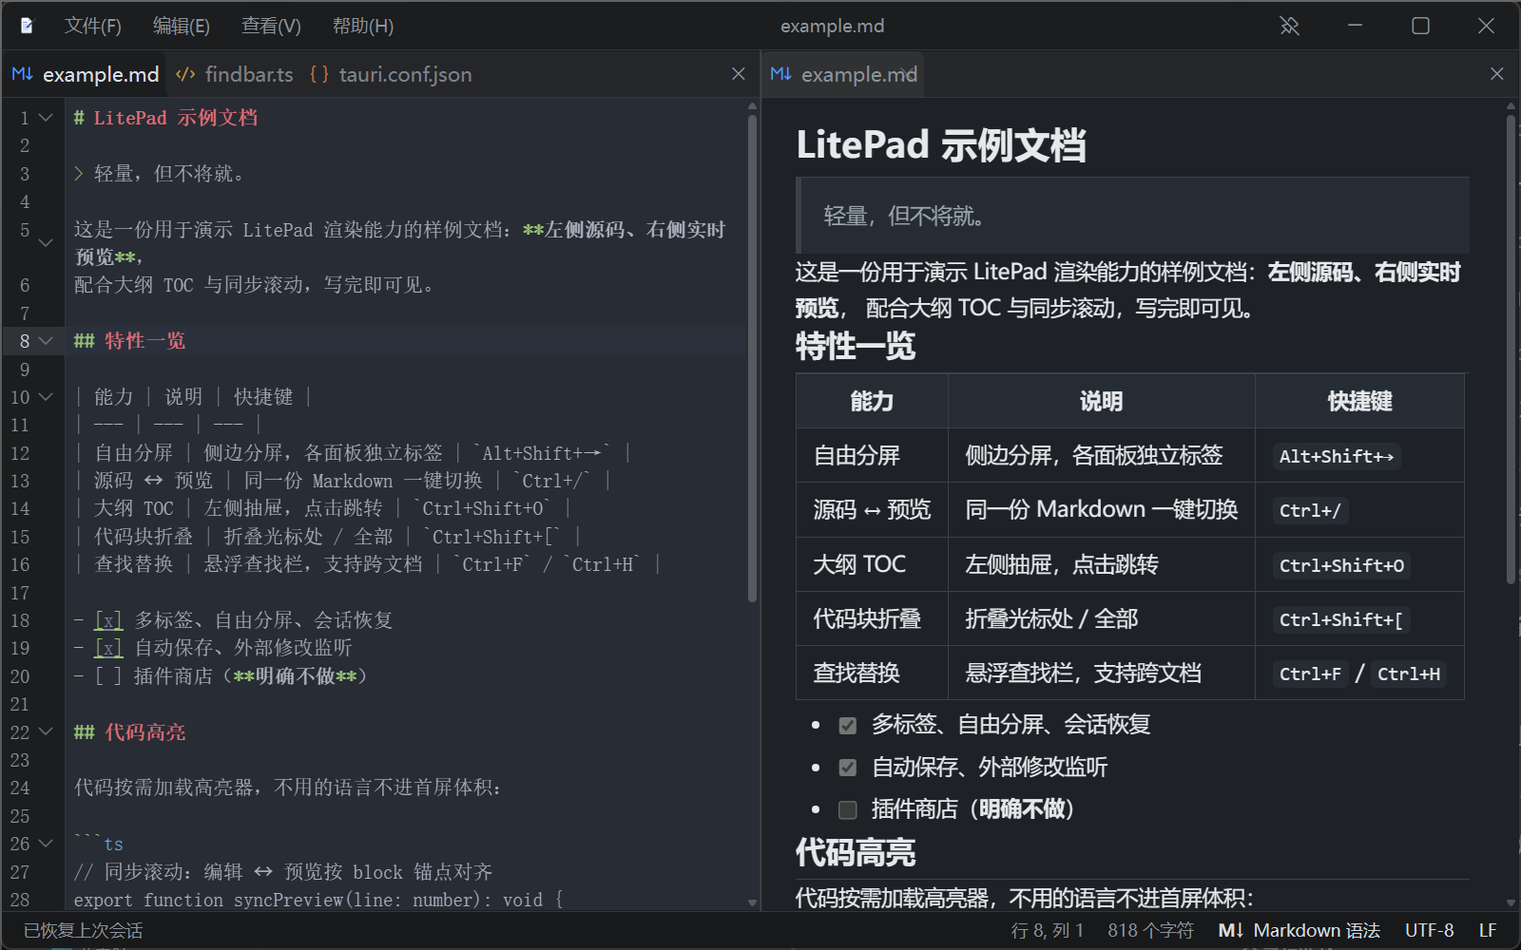
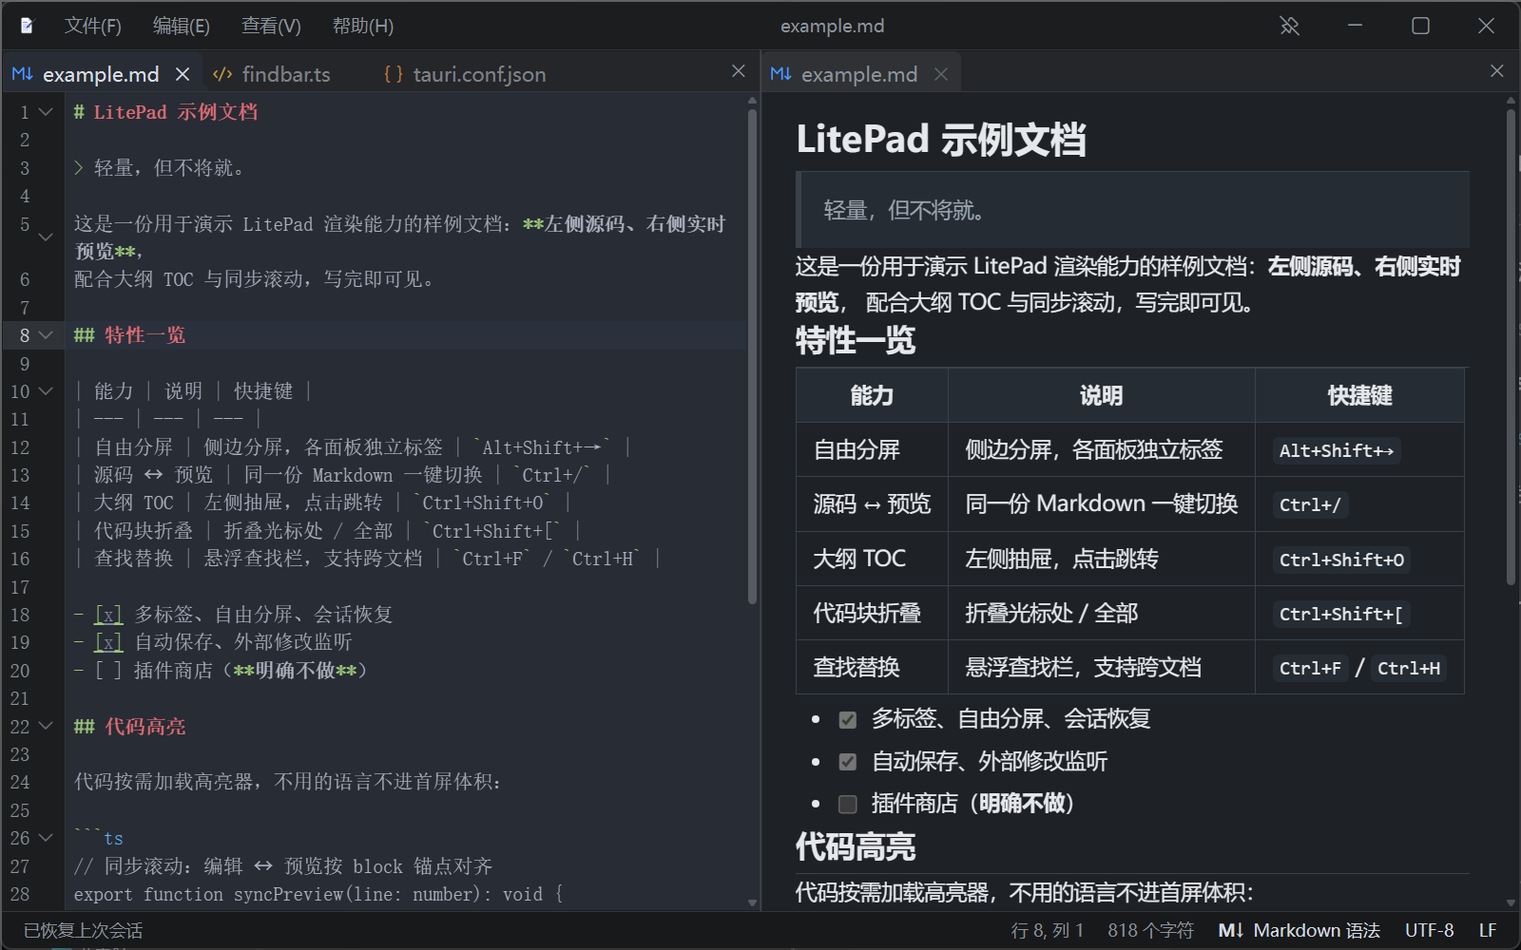
feat(tab): 恢复相连标签肩部并按 VS Code 对齐 hover 逻辑（B119）
- 肩部改实色四分之一圆：B117 后标签底=条带底，旧 box-shadow 补色整块
  落在条带盒外被 overflow 裁掉（肩部消失的根因）；fill 底边外扩同步收回
  （-4px→0），肩部整块留在条带盒内不再受裁切影响
- 深色活动标签色对齐 oneDark 编辑器底色 #282c34（原 var(--bg)=#1b1d1f
  比条带 #242629 还暗，舌片呈凹陷观感，与 VS Code 层级正好相反）
- hover 口径对齐 VS Code connected：--tab-bg-hover 改 color-mix(fg 6%,
  条带色)；connected 档移除活动标签悬停提亮（VS Code hover fill 规则
  全带 :not(.active)），pill 档保留提亮（activeHoverBackground 同款）；
  紧凑档活动垫底改用 fill 同色（pill 档单独跟随提亮）
- 测试：inset 断言、肩部实色圆盘契约（禁 box-shadow）、半径朝向、
  主题变量精确值、B118 垫底断言更新；新增三条退化替身反向验证

diff --git a/src/styles/global.css b/src/styles/global.css
@@ -32,10 +32,17 @@
        · --modern-ui-connected-tab-strip-background = editorGroupHeader.tabsBackground
      即「条带比编辑器差一档、活动标签与编辑器同色」——深 #252526 / 浅 #F3F3F3 那一档。 */
   --tab-strip-bg: #242629;
-  /* 非活动标签：透明（露出条带）；hover 只比条带抬一点点；活动 = --bg（编辑器背景）。
-     ⚠ 三档必须拉开可感知的差距 —— hover 若与 active 同色就分不出「选中」和「划过」。 */
-  --tab-bg-hover: rgba(255, 255, 255, 0.05);
-  --tab-bg-active: var(--bg);
+  /* 非活动标签：透明（露出条带）；hover 只比条带抬一点点；活动 = 编辑器内容区底色。
+     ⚠ 三档必须拉开可感知的差距 —— hover 若与 active 同色就分不出「选中」和「划过」。
+     B119：hover 改用 VS Code connected 的口径（connectedEditorTabs.css:77）
+     color-mix(fg 6%, 条带色)——与旧写法 rgba(255,255,255,.05) 观感几乎一致，
+     但「混底色」比「叠半透明」确定性强（不依赖下面垫的是什么）。
+     B119：--tab-bg-active 从 var(--bg)（#1b1d1f，应用铬色）改为 **#282c34** ——
+     深色下编辑器挂 oneDark（editor.ts:152），内容区实际底色是 oneDark 的
+     #282c34 而非 --bg；沿用旧值会让活动舌片比条带还暗一档（凹陷感），
+     与 VS Code「舌片亮于条带」正好相反。浅色下编辑器无 oneDark，仍是 var(--bg)。 */
+  --tab-bg-hover: color-mix(in srgb, var(--fg) 6%, var(--tab-strip-bg));
+  --tab-bg-active: #282c34;
   --tab-bg-active-hover: #343940;
   /* 标签文件类型图标的家族配色（B57）：十个家族各一色。
      同一族内用同一个色相（形状负责细分），浅深两套取各自的中调，
@@ -123,7 +130,8 @@
      editorGroupHeader.tabsBackground（#F3F3F3），活动标签 = 编辑器背景（纯白）。
      非活动 = 透明；hover 压暗一档（浅色主题里「变亮」没有感知空间）。 */
   --tab-strip-bg: #f3f3f3;
-  --tab-bg-hover: rgba(0, 0, 0, 0.05);
+  /* B119：hover 同深色档改 color-mix 口径（混入 6% 前景 ≈ 旧的 rgba(0,0,0,.05)） */
+  --tab-bg-hover: color-mix(in srgb, var(--fg) 6%, var(--tab-strip-bg));
   --tab-bg-active: var(--bg);
   --tab-bg-active-hover: #e6e8eb;
   /* 标签文件类型图标的家族配色（B57）：浅色底上要更深一档，否则发飘。 */
@@ -510,12 +518,15 @@ button:focus-visible {
 
 /* 底色层（VS Code 的 `.tab > .tab-fill`）：
    `inset-inline: 0` ⇒ 相邻标签的 fill **连成一条带**，不是彼此留缝的独立药丸；
-   上下各外扩 4px ⇒ 活动标签能顶到标签条的上沿、又盖过下沿与编辑器无缝相接。
+   上方外扩 4px ⇒ 活动标签能顶到标签条的上沿。
+   B119：底边从外扩 -4px 收回为 0 —— B117 后条带 28px = 4px 上间距 + 24px 标签，
+   标签底就是条带底，再往下外扩的部分整体落在条带盒外，会被 overflow 裁掉
+   （B117 后肩部消失的根因）；肩部相应改为贴条带底的实色四分之一圆（见下）。
    ⚠ 它是 positioned 元素（absolute），会盖住同层的普通流内容 —— 所以图标 /
    文件名 / ●× 槽位必须各自 `position: relative; z-index: 1`（同 VS Code 的 .tab-label）。 */
 .tab-fill {
   position: absolute;
-  inset: -4px 0 -4px;
+  inset: -4px 0 0;
   z-index: 0;
   border-radius: 5px 5px 0 0;
   background: transparent;
@@ -531,43 +542,43 @@ button:focus-visible {
   background: var(--tab-bg-hover);
 }
 
-/* 活动标签：fill 抬到**编辑器背景色**（--tab-bg-active 即 var(--bg)），
-   描一圈 --border 但**不封底边** —— 底边敞开才能与下面的编辑区连成一体。 */
+/* 活动标签：fill 抬到**编辑器内容区底色**（--tab-bg-active，深色 = oneDark 的
+   #282c34，浅色 = var(--bg)），无边框、底边不封口 —— 与下面的编辑区连成一体。 */
 .tab-active {
   color: var(--fg);
 }
 
-/* B113-2（方案 A「修色保反馈」）：fill 的底色收进局部变量 --tab-fill-bg，
-   肩部的 box-shadow **也用它** —— 悬停提亮、闪烁变色时只改这一个变量，
-   标签和两侧肩部就永远同色（修复「肩部两块颜色和标签对不上」）。
-   ⚠ 必须配合下面的 @property 注册：不注册的话自定义属性动画是**离散跳变**，
-   注册成 <color> 后 keyframes 改它才有平滑插值（肩部也跟着平滑过渡）。 */
+/* B113-2：fill 的底色收进局部变量 --tab-fill-bg，肩部的底色**也用它** ——
+   非焦点降档时只改这一个变量，标签和两侧肩部就永远同色
+   （修复「肩部两块颜色和标签对不上」）。
+   ⚠ 必须配合下面的 @property 注册：不注册的话自定义属性变化是**离散跳变**，
+   注册成 <color> 后改变量才有平滑过渡（肩部也跟着平滑过渡）。 */
 @property --tab-fill-bg {
   syntax: "<color>";
   inherits: true;
   initial-value: #0000;
 }
 
-/* B116：去掉描边（用户要求）。活动标签只靠底色区分 —— fill 取编辑器背景色、
-   只有上方两角圆、底边不封口，与编辑区连成一体；侧边描边去掉后「舌片」的
-   根部过渡由肩部的纯色圆角补色完成（见下方肩部注释）。 */
+/* B116 去描边 + B119 实色肩部：活动标签只靠底色区分 —— fill 取编辑器内容区底色、
+   只有上方两角圆、底边不封口，与编辑区连成一体；「舌片」的根部过渡由
+   肩部的实色四分之一圆完成（见下方肩部注释）。 */
 .tab-active .tab-fill {
   --tab-fill-bg: var(--tab-bg-active);
   background: var(--tab-fill-bg);
 }
 
-/* 悬停在活动标签上再亮一档：只改变量，底色与肩部一起平滑提亮 */
-.tab-active:hover .tab-fill {
-  --tab-fill-bg: var(--tab-bg-active-hover);
-}
+/* B119：connected 档不再有「悬停活动标签再亮一档」—— 对齐 VS Code：
+   connectedEditorTabs.css / tabs.css 里所有 hover fill 规则都带 :not(.active)，
+   活动标签悬停只亮关闭按钮（action-active-hover-background = fill 同色）。
+   pill 档保留提亮（VS Code 的 modernEditorTab.activeHoverBackground 同款），
+   覆盖规则见下方 pill 块。 */
 
 /* 非活动分屏里，活动标签整体降一档：fill 退回「比条带亮一点」的 hover 档、
    文字变灰 —— 分屏时一眼看出焦点在哪块面板。
    ⚠ 必须连 :hover 一起覆盖，否则鼠标划过非焦点面板时标签会「亮回来」。
    依赖 .layout-panel-active 实时正确 —— 由 main.ts 的 markActivePanel 同步。
-   ⚠ B116：必须覆盖的是 --tab-fill-bg 而不是 background —— 肩部的补色
-   box-shadow 引用这个变量，只改 background 的话标签降了档、肩部还停在
-   编辑器底色上（描边时代靠 border-color: transparent 掩盖，现在没边框了）。 */
+   ⚠ 必须覆盖的是 --tab-fill-bg 而不是 background —— 肩部的底色
+   引用这个变量，只改 background 的话标签降了档、肩部还停在编辑器底色上。 */
 .layout-panel:not(.layout-panel-active) .tab-active {
   color: var(--fg-muted);
 }
@@ -577,13 +588,16 @@ button:focus-visible {
   background: var(--tab-bg-hover);
 }
 
-/* 活动标签左右两侧的「肩部」：一个 shoulder 见方的小盒子贴在 fill 外侧下角，
-   用 box-shadow 把它补成标签底色、外侧下角圆到 shoulder ——
-   于是「条带底边 → 活动标签侧边」是一条连续的圆角曲线，而不是直角折线，
-   舌片才看得出「从条带里长出来」。
-   B116：描边整体去掉后，肩部只剩**纯色补色圆角**（原方案的 border 画线删除）；
-   补色引用 --tab-fill-bg，悬停提亮 / 非焦点降档时肩部跟着标签一起变。
-   shoulder 与 fill 顶部圆角同为 5px，阴影偏移/扩散取它的一半（2.5px）。 */
+/* 活动标签左右两侧的「肩部」：贴在 fill 外侧下角的 5px 见方实色块，
+   只圆**外侧上角**（border-top-left/right-radius）—— 于是留下的是一块
+   以「标签侧边 × 条带底边」为直角边、以圆弧为斜边的四分之一圆盘：
+   「条带底边 → 活动标签侧边」是一条连续的凹圆曲线，舌片看得出「从条带里长出来」。
+   B119：构造从 box-shadow 补色改为**实色圆盘** —— B117 把条带压到 28px 后
+   标签底 = 条带底，旧构造（阴影向下外扩）整块落在条带盒外被 overflow 裁掉，
+   肩部因此消失；实色圆盘完全在条带盒内，与裁切无关。
+   底色引用 --tab-fill-bg（同源变量），非焦点降档时肩部跟着标签一起变。
+   曲线朝向（左肩）：圆盘的直角边贴着标签左缘与条带底，弧从「标签缘上 5px」
+   扫到「条带底左 5px」，弧外仍露条带色 —— 与 VS Code 肩部同形。 */
 .tab-active .tab-fill::before,
 .tab-active .tab-fill::after {
   content: "";
@@ -591,21 +605,19 @@ button:focus-visible {
   bottom: 0;
   width: 5px;
   height: 5px;
+  background: var(--tab-fill-bg, var(--tab-bg-active));
   pointer-events: none;
+  transition: background 0.12s ease;
 }
 
 .tab-active .tab-fill::before {
   right: 100%;
-  border-bottom-right-radius: 5px;
-  box-shadow: 2.5px 2.5px 0 2.5px var(--tab-fill-bg, var(--tab-bg-active));
-  transition: box-shadow 0.12s ease;
+  border-top-left-radius: 5px;
 }
 
 .tab-active .tab-fill::after {
   left: 100%;
-  border-bottom-left-radius: 5px;
-  box-shadow: -2.5px 2.5px 0 2.5px var(--tab-fill-bg, var(--tab-bg-active));
-  transition: box-shadow 0.12s ease;
+  border-top-right-radius: 5px;
 }
 
 /* 首尾标签的外侧没有邻居，肩部会悬在标签条的留白上变成一条多余的短线 */
@@ -649,6 +661,11 @@ button:focus-visible {
   /* 药丸无边框（B55）：活动/非活动的差异 = 底色 + 文字明度两档 */
   border: none;
 }
+:root[data-tab-style="pill"] .tab-active:hover .tab-fill {
+  /* B119：pill 档保留悬停提亮（VS Code 的 modernEditorTab.activeHoverBackground
+     同款只存在于药丸档；connected 档悬停不改活动 fill，见上面 B119 注释） */
+  --tab-fill-bg: var(--tab-bg-active-hover);
+}
 :root[data-tab-style="pill"] .tab-active .tab-fill::before,
 :root[data-tab-style="pill"] .tab-active .tab-fill::after {
   /* 胶囊四角自带圆角，没有肩部 */
@@ -689,11 +706,12 @@ button:focus-visible {
    × 悬浮时压在文字尾部会显得生硬 —— 悬停 / 键盘聚焦时在 × 左侧铺一块
    「透明 → 标签底色」的软垫，文字尾部渐隐，× 像浮在标签底色上。
    仅紧凑档需要：预留档有 20px 空位，× 从不压字。
-   ⚠ 垫底必须**盖得住文字**，分两档写：
-   · 非活动标签的悬停底色 --tab-bg-hover 是半透明（叠在条带色上的），
-     单层渐变盖不住字 → 双层背景：渐变层 + 条带色垫底；
-   · 活动标签的 fill 是不透明底色 → 单层渐变即可（transparent 端露出
-     同色的 fill，视觉无缝）。
+   ⚠ 垫底必须**盖得住文字**：
+   · 非活动标签：单层渐变即可（B119 起 --tab-bg-hover 是 color-mix 不透明色，
+     渐变到实色自然盖住文字尾部；transparent 端露出文字）；
+   · 活动标签：渐变到活动 fill 同色（--tab-bg-active；B119 对齐 VS Code 的
+     action-active-hover-background = surface —— connected 档悬停不再提亮，
+     垫色必须跟 fill 一致才无缝；pill 档悬停仍提亮一档，见 pill 覆盖块）。
    垫只随 × 一起淡入（opacity），不引起布局跳动（B57 红线不变）。 */
 :root[data-tab-reserve="off"] .tab:not(.tab-dirty) .tab-action::before {
   content: "";
@@ -711,9 +729,15 @@ button:focus-visible {
   opacity: 1;
 }
 :root[data-tab-reserve="off"] .tab:not(.tab-dirty):not(.tab-active):hover .tab-action::before {
-  background: linear-gradient(to right, transparent, var(--tab-bg-hover)), var(--tab-strip-bg);
+  background: linear-gradient(to right, transparent, var(--tab-bg-hover));
 }
 :root[data-tab-reserve="off"] .tab-active:not(.tab-dirty):hover .tab-action::before {
+  background: linear-gradient(to right, transparent, var(--tab-bg-active));
+}
+:root[data-tab-style="pill"][data-tab-reserve="off"]
+  .tab-active:not(.tab-dirty):hover
+  .tab-action::before {
+  /* pill 档悬停时活动 fill 提亮一档（见 pill 块 B119 注释），垫色跟着提 */
   background: linear-gradient(to right, transparent, var(--tab-bg-active-hover));
 }
 

diff --git a/tests/tabstrip.test.ts b/tests/tabstrip.test.ts
@@ -221,10 +221,10 @@ describe("Connected 相连标签（B113，对齐 VS Code 1.139）", () => {
 
     const fill = cssDecls(ruleBlock(css, ".tab-fill"));
     expect(fill, "应有 .tab-fill 底色层").toBeTruthy();
-    expect(fill, "底色层必须绝对定位（才能上下外扩出标签行）").toContain("position: absolute");
-    expect(fill, "左右不得内缩：相邻标签必须相连（connected 而非独立药丸）").toMatch(
-      /inset:\s*-4px 0 -4px/,
-    );
+    expect(fill, "底色层必须绝对定位（才能向上外扩出标签行）").toContain("position: absolute");
+    // B119：底部外扩收回（-4px→0）—— B117 后标签底 = 条带底，外扩部分会被 overflow 裁掉；
+    // ⚠ 断言到分号：`-4px 0 0` 是 `-4px 0 -4px` 的前缀，不锚定分号会被旧值混过
+    expect(fill, "左右相连（connected）且底部不再外扩（B119）").toMatch(/inset:\s*-4px 0 0\s*;/);
     expect(fill, "只有上方两角是圆的（下方要与编辑器相接）").toMatch(
       /border-radius:\s*\d+px \d+px 0 0/,
     );
@@ -244,14 +244,31 @@ describe("Connected 相连标签（B113，对齐 VS Code 1.139）", () => {
     const hoverFill = cssDecls(ruleBlock(css, ".tab:hover:not(.tab-active) .tab-fill"));
     expect(hoverFill, "悬停要有独立一档底色").toContain("var(--tab-bg-hover)");
 
-    // 肩部：fill 外侧下角的纯色圆角补色，让「条带底边 → 标签侧边」是圆角曲线而非直角
-    // （B116：描边删除后肩部只剩 box-shadow 补色 + radius，不再画线）
+    // 肩部：fill 外侧下角的**实色四分之一圆**，让「条带底边 → 标签侧边」是
+    // 圆角曲线而非直角（B116 去描边；B119 构造从 box-shadow 补色改为实色圆盘 ——
+    // B117 后标签底 = 条带底，阴影向下外扩的旧构造整块落在条带盒外被裁掉）。
     expect(css, "活动标签左侧要有肩部圆角").toMatch(/\.tab-active \.tab-fill::before/);
     expect(css, "活动标签右侧要有肩部圆角").toMatch(/\.tab-active \.tab-fill::after/);
     expect(css, "首尾标签的外侧不画肩（那里没有邻居可接）").toMatch(
       /:first-child \.tab-fill::before/,
     );
-    const shoulderAfter = cssDecls(ruleBlock(css, ".tab-active .tab-fill::after"));
+    // 第 1 条命中 = 公共规则（占位 + 底色），第 2 条 = 定位/圆角规则
+    const shoulderShared = cssDecls(ruleBlock(css, ".tab-active .tab-fill::before"));
+    expect(shoulderShared, "肩部必须实色且引用 --tab-fill-bg（与标签底色同源）").toContain(
+      "background: var(--tab-fill-bg",
+    );
+    expect(
+      shoulderShared,
+      "肩部不得再用 box-shadow 补色（旧构造会被 overflow 裁掉）",
+    ).not.toContain("box-shadow");
+    const shoulderBefore = cssDecls(ruleBlock(css, ".tab-active .tab-fill::before", 2));
+    expect(shoulderBefore, "左肩只圆外侧上角（border-top-left-radius）").toContain(
+      "border-top-left-radius: 5px",
+    );
+    const shoulderAfter = cssDecls(ruleBlock(css, ".tab-active .tab-fill::after", 2));
+    expect(shoulderAfter, "右肩只圆外侧上角（border-top-right-radius）").toContain(
+      "border-top-right-radius: 5px",
+    );
     expect(shoulderAfter, "肩部不得再画线（描边已整体移除）").not.toMatch(
       /border-(left|bottom):\s*1px/,
     );
@@ -267,7 +284,19 @@ describe("Connected 相连标签（B113，对齐 VS Code 1.139）", () => {
       for (const v of ["--tab-bg-hover:", "--tab-bg-active:", "--tab-bg-active-hover:"]) {
         expect(block, `${name}主题必须定义 ${v}`).toContain(v);
       }
+      // B119：hover 用 VS Code connected 的口径（connectedEditorTabs.css:77）
+      expect(block, `${name} hover 必须 color-mix(fg 6%, 条带色)（B119 对齐 VS Code）`).toContain(
+        "--tab-bg-hover: color-mix(in srgb, var(--fg) 6%, var(--tab-strip-bg));",
+      );
     }
+    // B119：深色活动标签 = oneDark 编辑器内容区底色（editor.ts 挂 oneDark，
+    // 内容区实际是 #282c34 而非 --bg #1b1d1f —— 旧值让舌片比条带还暗）
+    expect(themeBlock(css, "dark"), "深色活动标签必须对齐 oneDark 底色").toContain(
+      "--tab-bg-active: #282c34;",
+    );
+    expect(themeBlock(css, "light"), "浅色活动标签仍取 --bg（无 oneDark）").toContain(
+      "--tab-bg-active: var(--bg);",
+    );
 
     // B116：闪烁效果整体移除（用户要求）——CSS 与 TS 两侧都不得再有 tab-flash 痕迹
     // （stripCssComments 剥掉说明性注释后断言，避免被「移除记录」误伤）
@@ -277,13 +306,13 @@ describe("Connected 相连标签（B113，对齐 VS Code 1.139）", () => {
     expect(css, "--tab-fill-bg 必须注册成 color 类型").toMatch(
       /@property --tab-fill-bg\s*\{[^}]*syntax:\s*"<color>"/,
     );
-    // B113-2 核心：肩部补色与标签底色**同源**（同一个变量），悬停提亮才不会再对不上色
-    // ⚠ ::before 有两条规则（公共占位 + 定位/补色），用 filter 取含 box-shadow 的那条
-    const shoulder = cssDecls(ruleBlock(css, ".tab-active .tab-fill::before", "box-shadow"));
-    expect(shoulder, "肩部补色必须引用 --tab-fill-bg").toContain("var(--tab-fill-bg");
-    const activeHover = cssDecls(ruleBlock(css, ".tab-active:hover .tab-fill"));
-    expect(activeHover, "悬停提亮必须只改变量（底色与肩部一起变）").toMatch(
-      /--tab-fill-bg:\s*var\(--tab-bg-active-hover\)/,
+    // B119：connected 档活动标签悬停**不再提亮**（VS Code 的 hover fill 规则全带
+    // :not(.active)，活动标签悬停只亮关闭按钮）；pill 档保留提亮（activeHoverBackground）
+    expect(cssCode, "connected 档不得再有独立的活动标签悬停提亮规则").not.toMatch(
+      /\}\s*\.tab-active:hover \.tab-fill\s*\{/,
+    );
+    expect(cssCode, "pill 档保留悬停提亮（VS Code activeHoverBackground 同款）").toContain(
+      ':root[data-tab-style="pill"] .tab-active:hover .tab-fill',
     );
 
     // DOM 侧：CSS 写了但没渲染这个元素，标签就是全透明一片
@@ -349,6 +378,41 @@ describe("Connected 相连标签（B113，对齐 VS Code 1.139）", () => {
     const BAD_CSS = cssCode + "\n@keyframes tab-flash {\n  0% { --tab-fill-bg: red; }\n}\n";
     expect(() => {
       expect(stripCssComments(BAD_CSS), "替身里 tab-flash 必须被抓到").not.toContain("tab-flash");
+    }).toThrow();
+  });
+  it("B119 反向验证：肩部旧构造（box-shadow 补色 / 提亮回潮 / 圆角朝向回退）必须被咬住", () => {
+    // 退化替身把 B119 之前的三种错误写法塞回去，证明 B119 的契约断言不是恒真假绿。
+    const css = readFileSync("src/styles/global.css", "utf-8");
+    const cssCode = stripCssComments(css);
+
+    // ① 旧构造：box-shadow 补色（B117 起会被条带 overflow 裁掉，肩部直接消失）
+    const BAD_SHADOW =
+      cssCode + "\n.tab-active .tab-fill::before {\n  box-shadow: 2.5px 2.5px 0 2.5px red;\n}\n";
+    expect(() => {
+      expect(stripCssComments(BAD_SHADOW), "替身的 box-shadow 必须被抓到").not.toContain(
+        "box-shadow",
+      );
+    }).toThrow();
+
+    // ② 悬停提亮回潮：connected 档出现独立的活动标签悬停提亮规则
+    const BAD_HOVER = cssCode + "\n.tab-active:hover .tab-fill { --tab-fill-bg: red; }\n";
+    expect(() => {
+      expect(stripCssComments(BAD_HOVER), "替身的提亮规则必须被抓到").not.toMatch(
+        /\}\s*\.tab-active:hover \.tab-fill\s*\{/,
+      );
+    }).toThrow();
+
+    // ③ 圆角朝向回退：左肩写回旧构造的 border-bottom-right-radius（弧形凸向错误）
+    const BAD_RADIUS = css.replace(
+      "border-top-left-radius: 5px",
+      "border-bottom-right-radius: 5px",
+    );
+    expect(BAD_RADIUS, "替身必须真的替换过（否则反向验证空转）").not.toBe(css);
+    expect(() => {
+      expect(
+        cssDecls(ruleBlock(BAD_RADIUS, ".tab-active .tab-fill::before", 2)),
+        "左肩半径必须仍要求 border-top-left-radius",
+      ).toContain("border-top-left-radius: 5px");
     }).toThrow();
   });
 });
@@ -573,15 +637,20 @@ describe("紧凑档悬浮 × 的渐变垫底（B118，对齐 VS Code）", () => 
     );
     expect(css, "淡入必须覆盖键盘聚焦").toContain(".tab-action:focus-within::before");
 
-    // 非活动标签的悬停底色是半透明，单层渐变盖不住字 → 必须双层（渐变 + 条带色垫底）
-    const dimPad = cssDecls(ruleBlock(css, ".tab-action::before", "var(--tab-strip-bg)"));
-    expect(dimPad, "非活动垫必须双层：渐变 + 条带色").toContain(
+    // B119 起 --tab-bg-hover 是 color-mix 不透明色：单层渐变即可盖住文字尾部
+    const dimPad = cssDecls(ruleBlock(css, ".tab-action::before", "var(--tab-bg-hover)"));
+    expect(dimPad, "非活动垫 = 渐变到悬停底色（单层，B119 起悬停色不透明）").toContain(
       "linear-gradient(to right, transparent, var(--tab-bg-hover))",
     );
-    expect(dimPad, "非活动垫必须有实色垫底").toContain("var(--tab-strip-bg)");
-    // 活动标签 fill 不透明 → 单层渐变即可
-    const activePad = cssDecls(ruleBlock(css, ".tab-action::before", "var(--tab-bg-active-hover)"));
-    expect(activePad, "活动垫用单层渐变到活动悬停色").toContain(
+    // 活动垫 = 渐变到活动 fill 同色（B119 对齐 VS Code action-active-hover-background = surface；
+    // ⚠ filter 用带收尾括号的 var(--tab-bg-active))，否则会被 pill 垫的 active-hover 超集混过）
+    const activePad = cssDecls(ruleBlock(css, ".tab-action::before", "var(--tab-bg-active))"));
+    expect(activePad, "活动垫用单层渐变到活动 fill 同色（connected 悬停不提亮）").toContain(
+      "linear-gradient(to right, transparent, var(--tab-bg-active))",
+    );
+    // pill 档悬停仍提亮一档 → 垫色跟着提（覆盖块）
+    const pillPad = cssDecls(ruleBlock(css, ".tab-action::before", "var(--tab-bg-active-hover)"));
+    expect(pillPad, "pill 档活动垫跟随提亮后的 fill").toContain(
       "linear-gradient(to right, transparent, var(--tab-bg-active-hover))",
     );
 
